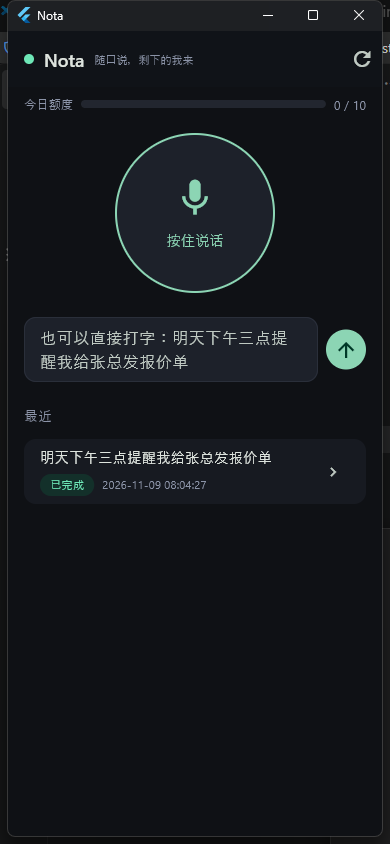
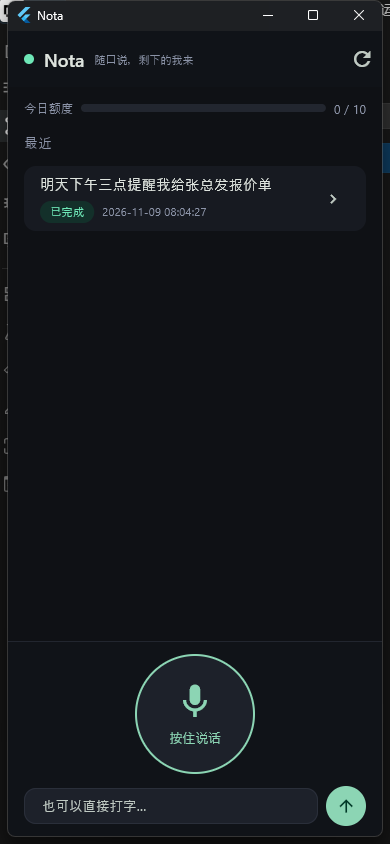
Move hold-to-talk to a bottom action bar
The button sat in the middle of a scrolling list, which was wrong for the
primary action on a phone: it scrolled away while reading older notes, and it
was nowhere near where the thumb rests. The bottom bar is now a fixed area
holding hold-to-talk plus the keyboard fallback, with the note list scrolling
between it and the pinned quota bar.

Details that came with the move:

  - HoldToTalkButton takes a size (120 down from 160) and scales its icon and
    label off it, since the bottom bar has limited height.
  - A disabled state is now visually distinct: greyed border, icon and label
    instead of a full-colour button that just ignores taps.
  - Status ("Agent 正在处理…") and the quota-exhausted warning render inside the
    bottom bar, so the user sees them right where the finger is, not a screen
    away.
  - SafeArea(bottom) wraps the bar for phones with a home indicator.
  - The hint text shrank to fit one line; the long example moved out since the
    button above it now says what the input is for.

Windows release rebuilt and re-verified: analyze clean, 11 tests pass, window
still 390x844, screenshot updated from the live build against the backend.

diff --git a/app/nota_app/lib/pages/home_page.dart b/app/nota_app/lib/pages/home_page.dart
@@ -29,7 +29,6 @@ class _HomePageState extends State<HomePage> {
   String? _status;
   bool _recording = false;
   bool _busy = false;
-  String? _lastJobId;
 
   @override
   void initState() {
@@ -123,7 +122,6 @@ class _HomePageState extends State<HomePage> {
     try {
       final created = await submit();
       final jobId = created['job_id'] as String;
-      _lastJobId = jobId;
       setState(() => _status = 'Agent 正在处理…');
       final job = await widget.client.waitFor(jobId);
       if (!mounted) return;
@@ -195,99 +193,137 @@ class _HomePageState extends State<HomePage> {
           ),
         ],
       ),
-      body: RefreshIndicator(
-        onRefresh: _refresh,
-        child: ListView(
-          padding: const EdgeInsets.fromLTRB(16, 8, 16, 32),
-          children: [
-            if (quota != null) QuotaBar(used: quota.used, limit: quota.limit),
-            const SizedBox(height: 20),
-            Center(
-              child: HoldToTalkButton(
+      body: Column(
+        children: [
+          // Quota stays pinned at the top: it is read-only status, and keeping it
+          // outside the scroll view means it is visible while recording, when
+          // "am I about to run out" actually matters.
+          if (quota != null)
+            Padding(
+              padding: const EdgeInsets.fromLTRB(16, 12, 16, 4),
+              child: QuotaBar(used: quota.used, limit: quota.limit),
+            ),
+          Expanded(child: _buildNoteList()),
+          _buildBottomBar(quota),
+        ],
+      ),
+    );
+  }
+
+  Widget _buildNoteList() {
+    return RefreshIndicator(
+      onRefresh: _refresh,
+      child: ListView(
+        padding: const EdgeInsets.fromLTRB(16, 12, 16, 24),
+        children: [
+          const Text('最近',
+              style: TextStyle(fontSize: 13, color: Color(0xFF8B93A7), letterSpacing: 1)),
+          const SizedBox(height: 8),
+          if (_notes.isEmpty)
+            const Padding(
+              padding: EdgeInsets.symmetric(vertical: 24),
+              child: Center(
+                child: Text('还没有记录，说一句话试试',
+                    style: TextStyle(color: Color(0xFF8B93A7))),
+              ),
+            )
+          else
+            ..._notes.map((note) => Card(
+                  child: ListTile(
+                    title: Text(
+                      note.title ?? note.transcript,
+                      maxLines: 2,
+                      overflow: TextOverflow.ellipsis,
+                      style: const TextStyle(fontSize: 14),
+                    ),
+                    subtitle: Padding(
+                      padding: const EdgeInsets.only(top: 6),
+                      child: Row(
+                        children: [
+                          if (note.state != null) StateBadge(state: note.state!),
+                          const SizedBox(width: 8),
+                          Text(
+                            note.createdAt.replaceFirst('T', ' ').split('+').first,
+                            style: const TextStyle(fontSize: 11, color: Color(0xFF8B93A7)),
+                          ),
+                        ],
+                      ),
+                    ),
+                    trailing: const Icon(Icons.chevron_right, size: 18),
+                    onTap: () => _openNote(note),
+                  ),
+                )),
+        ],
+      ),
+    );
+  }
+
+  /// Bottom action area: hold-to-talk plus the keyboard alternative.
+  ///
+  /// Both live here rather than in the scrolling list because this is a
+  /// thumb-reach problem, not a layout preference — the primary action has to be
+  /// where the thumb already rests, and it must not scroll away while the user
+  /// is reading older notes. The gradient + top hairline separate it from the
+  /// list so the button reads as anchored rather than floating.
+  Widget _buildBottomBar(Quota? quota) {
+    final exhausted = quota != null && quota.exhausted;
+    return Container(
+      decoration: const BoxDecoration(
+        color: Color(0xFF101318),
+        border: Border(top: BorderSide(color: Color(0xFF22262F))),
+      ),
+      child: SafeArea(
+        top: false,
+        child: Padding(
+          padding: const EdgeInsets.fromLTRB(16, 12, 16, 10),
+          child: Column(
+            mainAxisSize: MainAxisSize.min,
+            children: [
+              if (_status != null) ...[
+                Text(_status!,
+                    style: const TextStyle(fontSize: 12, color: Color(0xFF8B93A7))),
+                const SizedBox(height: 8),
+              ],
+              if (exhausted) ...[
+                const Text('今日免费额度已用完，本地时间零点重置',
+                    style: TextStyle(fontSize: 12, color: Color(0xFFFBBF24))),
+                const SizedBox(height: 8),
+              ],
+              HoldToTalkButton(
                 recording: _recording,
-                enabled: !_busy && (quota == null || !quota.exhausted),
+                enabled: !_busy && !exhausted,
                 onStart: _startRecording,
                 onStop: _stopRecording,
               ),
-            ),
-            if (_status != null) ...[
               const SizedBox(height: 12),
-              Center(
-                child: Text(_status!,
-                    style: const TextStyle(fontSize: 12, color: Color(0xFF8B93A7))),
-              ),
-            ],
-            if (quota != null && quota.exhausted) ...[
-              const SizedBox(height: 12),
-              const Center(
-                child: Text('今日免费额度已用完，本地时间零点重置',
-                    style: TextStyle(fontSize: 12, color: Color(0xFFFBBF24))),
-              ),
-            ],
-            const SizedBox(height: 24),
-            Row(
-              children: [
-                Expanded(
-                  child: TextField(
-                    controller: _textController,
-                    enabled: !_busy,
-                    maxLines: 2,
-                    minLines: 1,
-                    decoration: const InputDecoration(
-                      hintText: '也可以直接打字：明天下午三点提醒我给张总发报价单',
-                      isDense: true,
+              Row(
+                children: [
+                  Expanded(
+                    child: TextField(
+                      controller: _textController,
+                      enabled: !_busy,
+                      maxLines: 2,
+                      minLines: 1,
+                      style: const TextStyle(fontSize: 13),
+                      decoration: const InputDecoration(
+                        hintText: '也可以直接打字…',
+                        hintStyle: TextStyle(fontSize: 13),
+                        isDense: true,
+                        contentPadding: EdgeInsets.symmetric(horizontal: 14, vertical: 12),
+                      ),
+                      onSubmitted: (_) => _sendText(),
                     ),
-                    onSubmitted: (_) => _sendText(),
                   ),
-                ),
-                const SizedBox(width: 8),
-                IconButton.filled(
-                  onPressed: _busy ? null : _sendText,
-                  icon: const Icon(Icons.arrow_upward),
-                  tooltip: '发送',
-                ),
-              ],
-            ),
-            const SizedBox(height: 24),
-            const Text('最近',
-                style: TextStyle(fontSize: 13, color: Color(0xFF8B93A7), letterSpacing: 1)),
-            const SizedBox(height: 8),
-            if (_notes.isEmpty)
-              const Padding(
-                padding: EdgeInsets.symmetric(vertical: 24),
-                child: Center(
-                  child: Text('还没有记录，说一句话试试',
-                      style: TextStyle(color: Color(0xFF8B93A7))),
-                ),
-              )
-            else
-              ..._notes.map((note) => Card(
-                    child: ListTile(
-                      title: Text(
-                        note.title ?? note.transcript,
-                        maxLines: 2,
-                        overflow: TextOverflow.ellipsis,
-                        style: const TextStyle(fontSize: 14),
-                      ),
-                      subtitle: Padding(
-                        padding: const EdgeInsets.only(top: 6),
-                        child: Row(
-                          children: [
-                            if (note.state != null) StateBadge(state: note.state!),
-                            const SizedBox(width: 8),
-                            Text(
-                              note.createdAt.replaceFirst('T', ' ').split('+').first,
-                              style: const TextStyle(fontSize: 11, color: Color(0xFF8B93A7)),
-                            ),
-                          ],
-                        ),
-                      ),
-                      trailing: const Icon(Icons.chevron_right, size: 18),
-                      onTap: () => _openNote(note),
-                    ),
-                  )),
-            if (_lastJobId != null) const SizedBox(height: 8),
-          ],
+                  const SizedBox(width: 8),
+                  IconButton.filled(
+                    onPressed: _busy ? null : _sendText,
+                    icon: const Icon(Icons.arrow_upward, size: 20),
+                    tooltip: '发送',
+                  ),
+                ],
+              ),
+            ],
+          ),
         ),
       ),
     );

diff --git a/app/nota_app/lib/widgets/hold_to_talk.dart b/app/nota_app/lib/widgets/hold_to_talk.dart
@@ -1,6 +1,9 @@
 import 'package:flutter/material.dart';
 
 /// 按住说话按钮：长按开始录音，松手结束并上传。
+///
+/// 尺寸可调是因为它现在住在底部固定栏里：底部留给它的高度有限，而它又是
+/// 最主要的操作，所以按「刚好够拇指按住、又不太占屏」来定，而不是铺满。
 class HoldToTalkButton extends StatefulWidget {
   const HoldToTalkButton({
     super.key,
@@ -8,12 +11,14 @@ class HoldToTalkButton extends StatefulWidget {
     required this.enabled,
     required this.onStart,
     required this.onStop,
+    this.size = 120,
   });
 
   final bool recording;
   final bool enabled;
   final VoidCallback onStart;
   final VoidCallback onStop;
+  final double size;
 
   @override
   State<HoldToTalkButton> createState() => _HoldToTalkButtonState();
@@ -46,14 +51,18 @@ class _HoldToTalkButtonState extends State<HoldToTalkButton>
         animation: _pulse,
         builder: (context, _) {
           final glow = widget.recording ? 6 + 14 * _pulse.value : 0.0;
+          final s = widget.size;
           return AnimatedContainer(
             duration: const Duration(milliseconds: 120),
-            width: 160,
-            height: 160,
+            width: s,
+            height: s,
             decoration: BoxDecoration(
               shape: BoxShape.circle,
               color: const Color(0xFF1D212A),
-              border: Border.all(color: activeColor, width: 2),
+              border: Border.all(
+                color: widget.enabled ? activeColor : const Color(0xFF2A2F3A),
+                width: 2,
+              ),
               boxShadow: [
                 BoxShadow(
                   color: activeColor.withValues(alpha: widget.recording ? 0.28 : 0.08),
@@ -65,11 +74,18 @@ class _HoldToTalkButtonState extends State<HoldToTalkButton>
             child: Column(
               mainAxisAlignment: MainAxisAlignment.center,
               children: [
-                Icon(widget.recording ? Icons.stop : Icons.mic, size: 44, color: activeColor),
-                const SizedBox(height: 10),
+                Icon(
+                  widget.recording ? Icons.stop : Icons.mic,
+                  size: s * 0.34,
+                  color: widget.enabled ? activeColor : const Color(0xFF5A6272),
+                ),
+                SizedBox(height: s * 0.06),
                 Text(
                   widget.recording ? '松手结束' : '按住说话',
-                  style: TextStyle(fontSize: 14, color: activeColor),
+                  style: TextStyle(
+                    fontSize: s * 0.105,
+                    color: widget.enabled ? activeColor : const Color(0xFF5A6272),
+                  ),
                 ),
               ],
             ),
